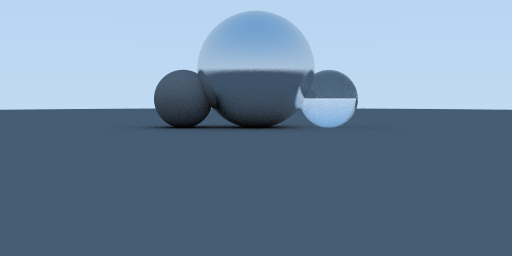
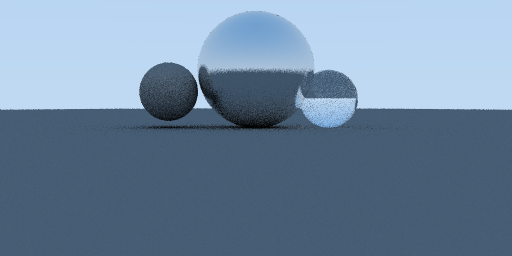
refactoring scatter into functions

diff --git a/src/material.rs b/src/material.rs
@@ -20,6 +20,7 @@ pub enum Material {
 fn reflect(v: DVec3, n: DVec3) -> DVec3 {
     v - n * v.dot(n) * 2.0
 }
+
 fn refract(v: DVec3, n: DVec3, ni_over_nt: f64) -> Option<DVec3> {
     let uv = v.normalize();
     let dt = uv.dot(n);
@@ -36,20 +37,32 @@ fn schlik(cosine: f64, refraction: f64) -> f64 {
     r0 + (1.0 - r0) * (1.0 - cosine).powf(5.0)
 }
 
+fn scatter_lambertian(target: DVec3, p: DVec3, attenuation: DVec3) -> (Ray, DVec3, bool) {
+    return (Ray::new(p, target - p), attenuation, true);
+}
+
+fn scatter_metal(
+    r: &Ray,
+    n: DVec3,
+    p: DVec3,
+    attenuation: DVec3,
+    fuzziness: f64,
+) -> (Ray, DVec3, bool) {
+    let reflected = reflect(r.direction().normalize(), n);
+    let scattered = Ray::new(p, reflected + random_in_unit_sphere() * fuzziness);
+    let b = scattered.direction().dot(n) >= 0.0;
+    (scattered, attenuation, b)
+}
+
 impl Material {
     pub fn scatter(&self, r: &Ray, n: DVec3, p: DVec3) -> (Ray, DVec3, bool) {
         let target = p + n + random_in_unit_sphere();
         match self {
-            Material::Lambertian { attenuation } => (Ray::new(p, target - p), *attenuation, true),
+            Material::Lambertian { attenuation } => scatter_lambertian(target, p, *attenuation),
             Material::Metal {
                 attenuation,
                 fuzziness,
-            } => {
-                let reflected = reflect(r.direction().normalize(), n);
-                let scattered = Ray::new(p, reflected + random_in_unit_sphere() * *fuzziness);
-                let b = scattered.direction().dot(n) >= 0.0;
-                (scattered, *attenuation, b)
-            }
+            } => scatter_metal(r, n, p, *attenuation, *fuzziness),
             Material::Dielectric { refraction } => {
                 let reflected = reflect(r.direction(), n);
                 let (outward_normal, ni_over_nt, cosine) = if r.direction().dot(n) > 0.0 {

diff --git a/src/main.rs b/src/main.rs
@@ -44,11 +44,18 @@ fn random_scene() -> HitableList {
         4.0,
         material_refract.clone(),
     )));
-    list.push(Box::new(Sphere::new(
+    let mut some_sphere = Box::new(Sphere::new(
         DVec3::new(-10.0, 4.0, -100.0),
         4.0,
         material.clone(),
-    )));
+    ));
+    some_sphere.translate(DVec3 {
+        x: (-2.0),
+        y: (1.0),
+        z: (0.0),
+    });
+    some_sphere.scale(1.0);
+    list.push(some_sphere);
     list.push(Box::new(Sphere::new(
         DVec3::new(0.0, 8.0, -100.0),
         8.0,
@@ -68,13 +75,10 @@ fn main() {
     let start = Instant::now();
     //channels
     let channels = 3;
-
     //rendersettings
-    let ray_per_pixel = 100;
-
+    let ray_per_pixel = 10;
     //scene
     let world_scene = random_scene();
-
     //Image
     const IMAGE_WIDTH: f64 = 512.0;
     const IMAGE_HEIGHT: f64 = 256.0;
@@ -129,9 +133,6 @@ fn main() {
         image::ColorType::Rgb8,
     )
     .expect("Failed to save output image");
-    //println!("{:?} {:?}", pb.position(), pb.length());
-
-    //pb.length();
     let duration = start.elapsed();
     println!("Time elapsed in expensive_function() is: {:?}", duration);
 }

diff --git a/src/hitable.rs b/src/hitable.rs
@@ -31,6 +31,7 @@ pub trait Hitable: Sync {
     fn hit(&self, r: &Ray, t_min: f64, t_max: f64) -> Option<(HitRecord, &Material)>;
 }
 
+#[derive(Clone)]
 pub struct Sphere {
     center: DVec3,
     radius: f64,
@@ -52,6 +53,14 @@ impl Sphere {
 
     pub fn radius(&self) -> f64 {
         self.radius
+    }
+
+    pub fn translate(&mut self, translate: DVec3) {
+        self.center = self.center + translate;
+    }
+
+    pub fn scale(&mut self, scale: f64) {
+        self.radius = self.radius * scale;
     }
 }
 

diff --git a/src/camera.rs b/src/camera.rs
@@ -85,9 +85,9 @@ impl Camera {
     }
 
     pub fn get_ray(&self, s: f64, t: f64) -> Ray {
-        let rd = random_in_unit_disk() * self.lens_radius();
+        let _rd = random_in_unit_disk() * self.lens_radius();
 
-        let offset = self.u() * rd.x + self.v() * rd.y;
+        //let offset = self.u() * rd.x + self.v() * rd.y;
         Ray::new(
             //self.origin() + offset,
             self.origin(),

diff --git a/src/shapes/sphere.rs b/src/shapes/sphere.rs
@@ -15,6 +15,9 @@ impl Sphere {
             material,
         }
     }
+    pub fn translate(translate: DVec3) -> Self {
+        self.center * translate
+    }
 }
 
 impl Hit for Sphere {
